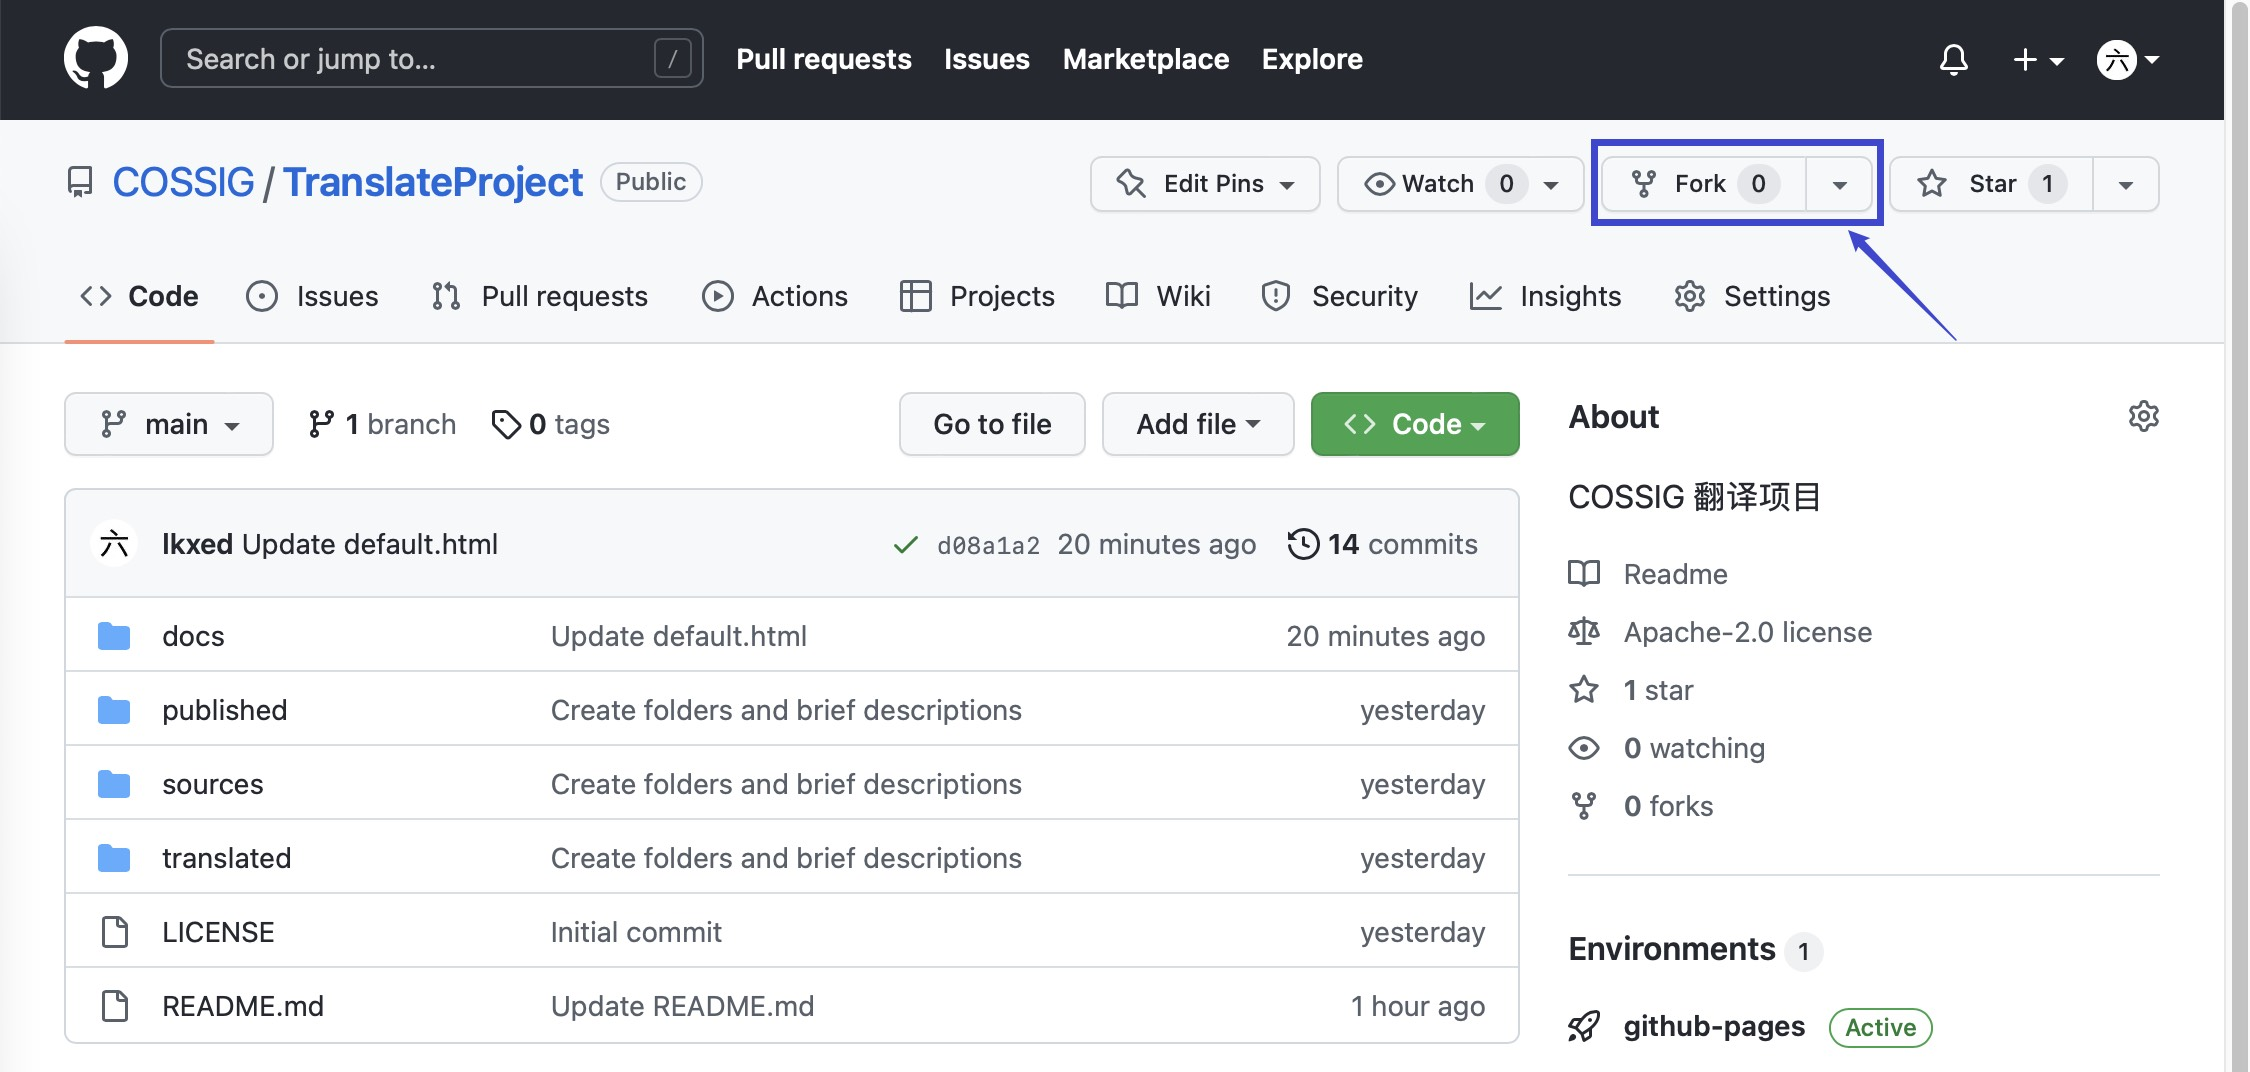
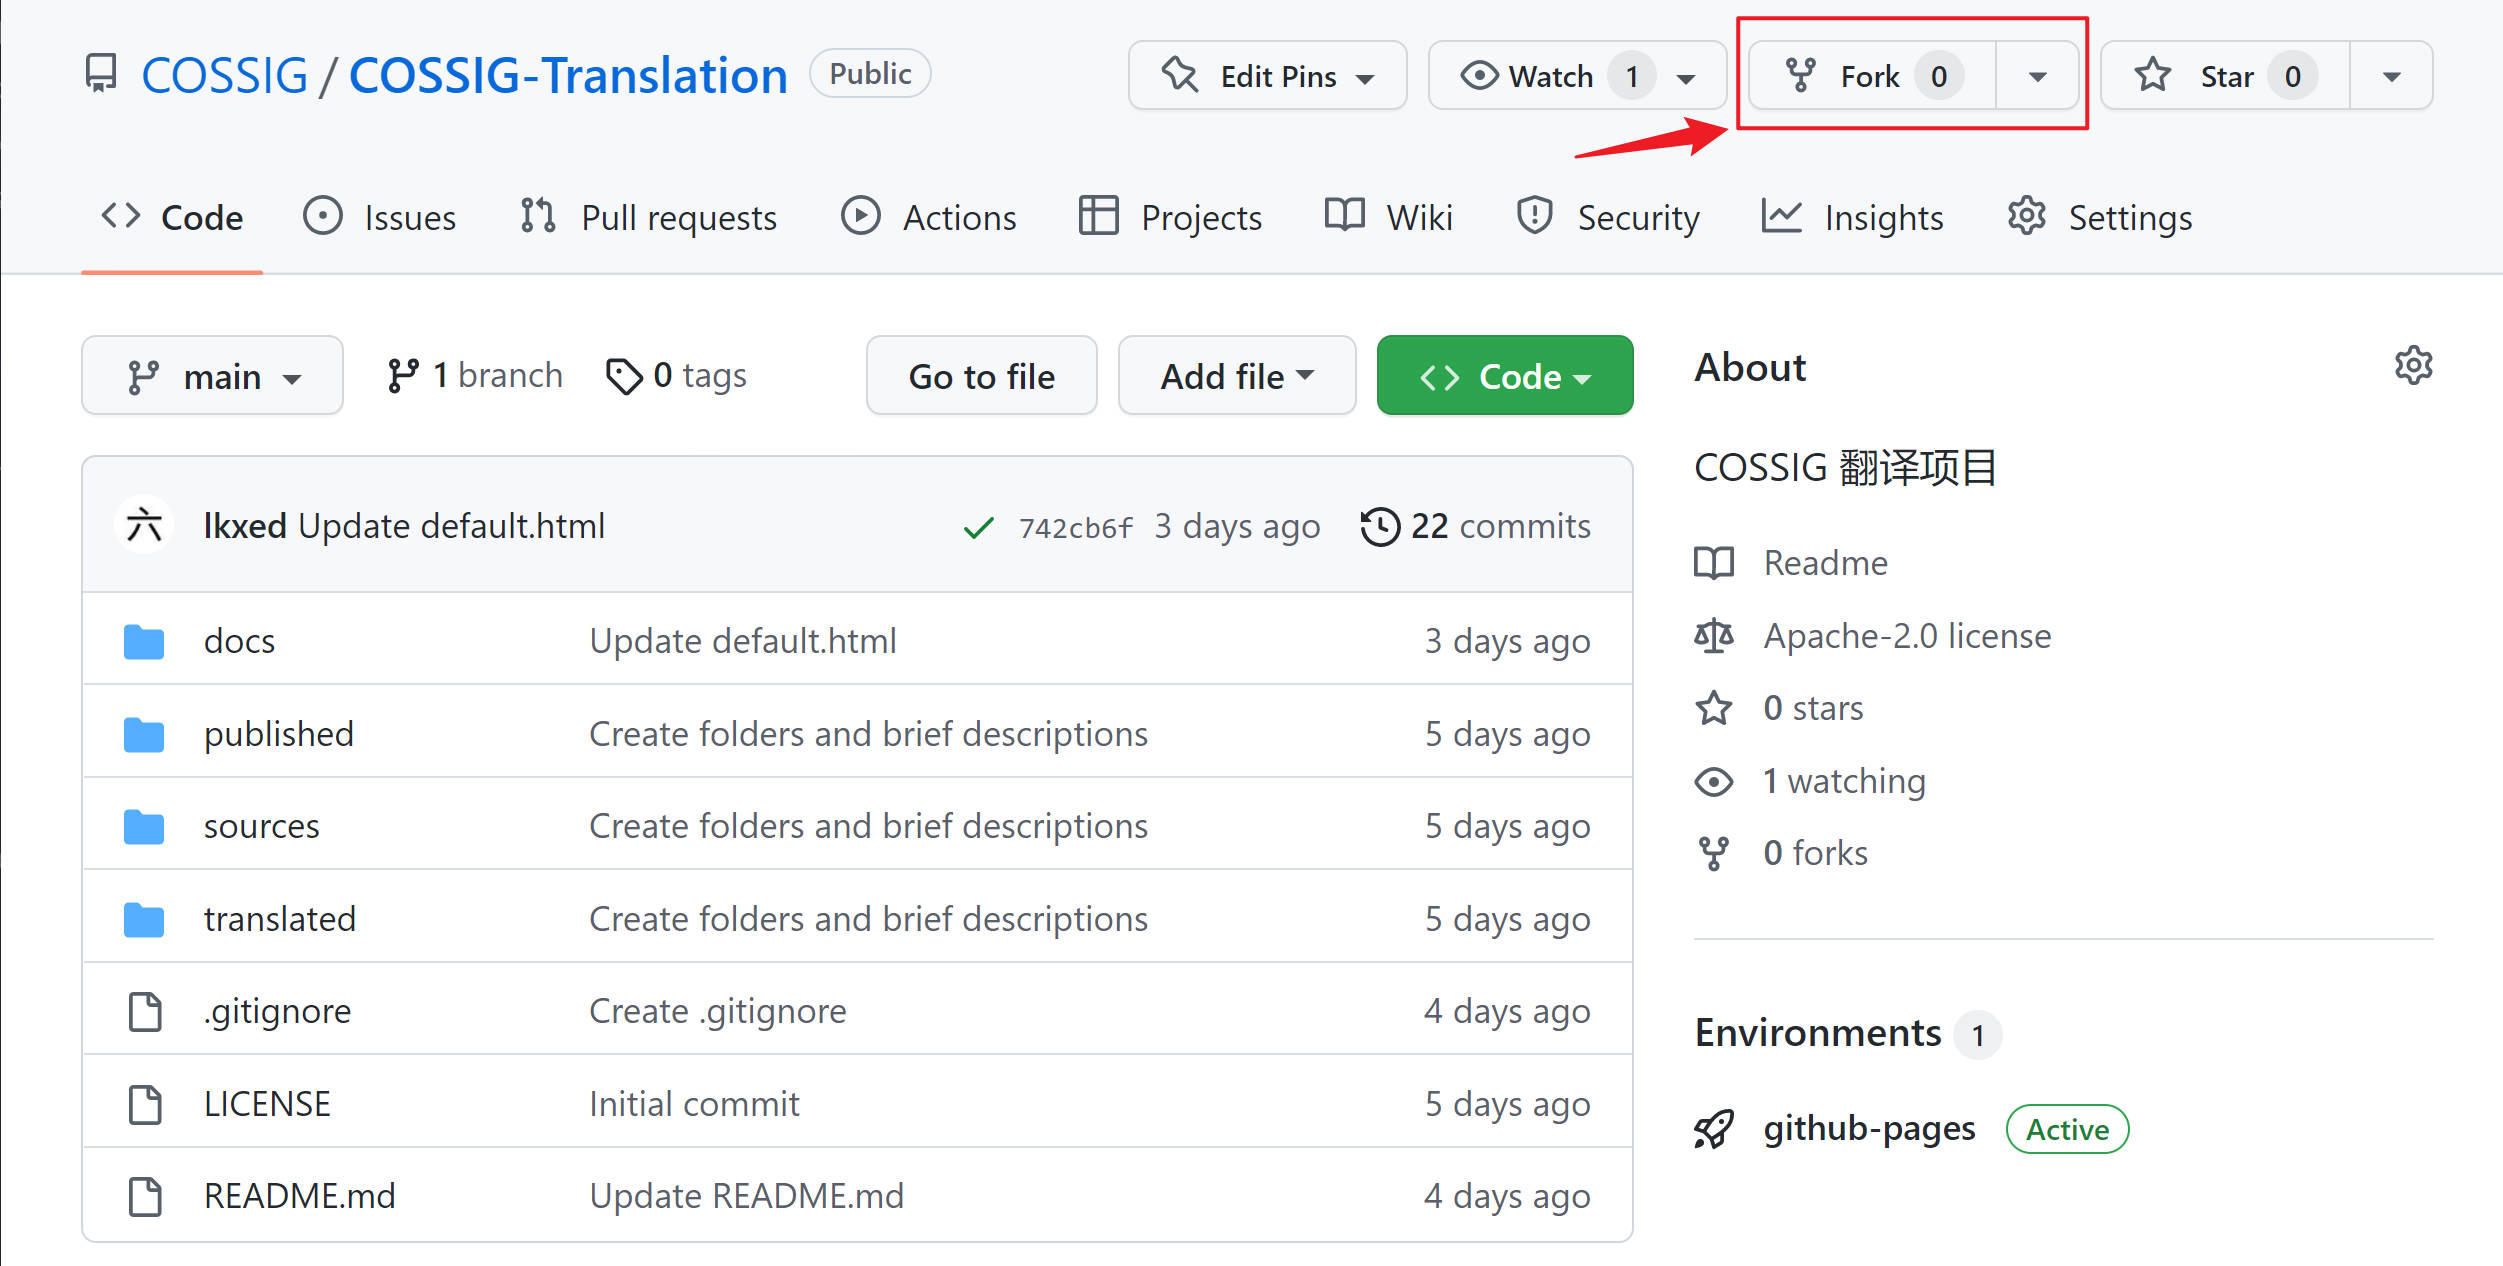
Update screenshots

diff --git a/docs/tutorials/web.md b/docs/tutorials/web.md
@@ -18,7 +18,7 @@
 
 注意：此步骤仅为**初次翻译**而准备。
 
-进入 TranslateProject 的仓库主页：[https://github.com/COSSIG/TranslateProject](https://github.com/COSSIG/TranslateProject)，点击右上角的 _Fork_ 按钮将仓库复刻到自己名下。
+进入 COSSIG-Translation 的仓库主页：[https://github.com/COSSIG/COSSIG-Translation](https://github.com/COSSIG/COSSIG-Translation)，点击右上角的 _Fork_ 按钮将仓库复刻到自己名下。
 
 ![](../assets/images/fork-web.jpg)
 
@@ -26,7 +26,7 @@
 
 ![](../assets/images/create-fork-web.jpg)
 
-成功后，你就有一个自己的 TranslateProject 仓库了，并且它此时与上游仓库（COSSIG/TranslateProject）完全一致。
+成功后，你就有一个自己的 COSSIG-Translation 仓库了，并且它此时与上游仓库（COSSIG/COSSIG-Translation）完全一致。
 
 ![](../assets/images/created-fork-web.jpg)
 
@@ -36,7 +36,7 @@
 
 注意：此步骤仅为**再次翻译**而准备。
 
-进入 TranslateProject 的仓库主页：[https://github.com/COSSIG/TranslateProject](https://github.com/COSSIG/TranslateProject)，观察文件列表上方的小提示。如果它显示 _This branch is up to date with COSSIG/TranslateProject:main._，说明仓库当前已经与上游一致，无需同步。
+进入 COSSIG-Translation 的仓库主页：[https://github.com/COSSIG/COSSIG-Translation](https://github.com/COSSIG/COSSIG-Translation)，观察文件列表上方的小提示。如果它显示 _This branch is up to date with COSSIG/COSSIG-Translation:main._，说明仓库当前已经与上游一致，无需同步。
 
 然而，如果它显示 _This branch is X commits behind COSSIG:main_，则说明仓库当前未与上游保持同步，我们需要手动执行同步操作。
 
@@ -44,7 +44,7 @@
 
 ![](../assets/images/sync-fork-web.jpg)
 
-等待几秒，页面刷新，小提示内容变为 _This branch is up to date with COSSIG/TranslateProject:main._，同步成功。
+等待几秒，页面刷新，小提示内容变为 _This branch is up to date with COSSIG/COSSIG-Translation:main._，同步成功。
 
 ## 申领原文
 
